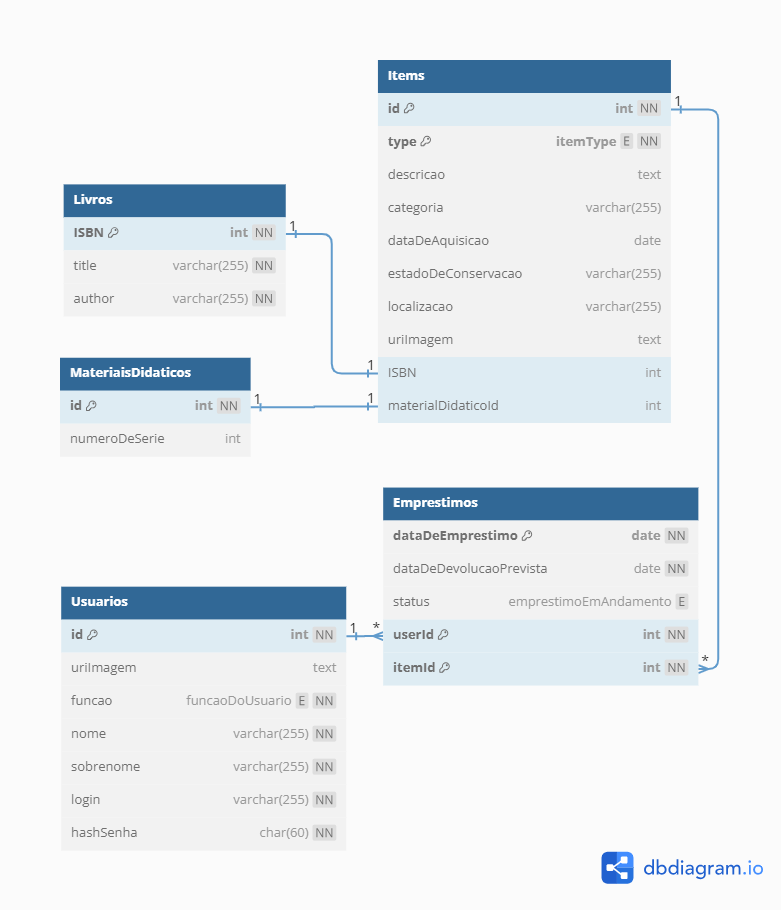
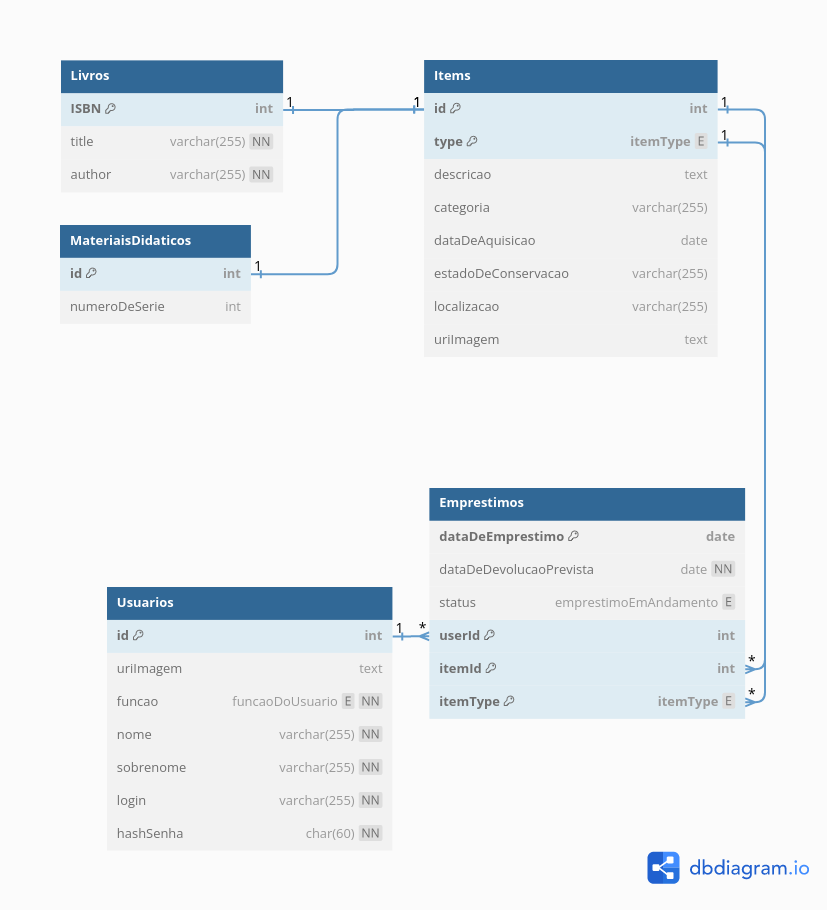
mudancas pro trab

diff --git a/segunda-entrega/Diagrama Relacional.md b/segunda-entrega/Diagrama Relacional.md
@@ -1,8 +1,44 @@
+---
+icon: table
+---
+
 # Diagrama do Modelo Relacional
 
-A maneira que boa parte das coisas foram convertidas do MER para o Modelo Relacional é clara o suficiente, mas ainda existem alguns pontos a se falar:
-
-- O hash da senha é guardada como `char(60)`;
-  - Como será usada a função
+## O diagrama
 
 [![https://dbdiagram.io/d/Trab-BD-63370a017b3d2034fff95595](DiagramaRelacional.png)](https://dbdiagram.io/d/Trab-BD-63370a017b3d2034fff95595)
+
+A maneira que boa parte das coisas foram convertidas do MER para o Modelo Relacional é clara o suficiente, mas ainda existem alguns pontos a se falar.
+
+Começando pelo **ponto mais interessante**:
+
+## Considerações
+
+### Como implementar uma herança em SQL?
+
+1. **_Single Table Inheritance_**:
+   - Criar **uma única tabela** com todas as propriedades **de todas as entidades** na relação de herança, e diferenciar qual a entidade da linha/_row_ com um atributo adicional;
+   - Isso cria **problemas**, pois, por exemplo, **não pode** se definir o atributo **ISBN como não nulo**, já que `"Material Didatico"`, **que tem ISBN nulo, ocuparia a mesma tabela** que `"Livro"`. Existem outros problemas, como **dificuldade de diferenciação** dos atributos de cada "filho", etc.
+2. **_Concrete Table Inheritance_**:
+   - Fazer **uma tabela para cada filho** do relacionamento, colocando os atributos do parente em cada um dos filhos. Ou seja, a herança definida com `"Item"`, `"Livro"` e `"Material Didatico"` seria implementado usando uma tabela para `"Livro"` e uma para `"Material Didatico"`;
+   - Isso cria **problemas**, pois, por exemplo, teríamos não uma, mas **duas tabelas** que possuem com **lógica de negócio semelhantes** (o que significa código duplicado), e a partir daí **mais duas tabelas** de `"Emprestimo"` diferentes, **multiplicando o problema** por 2. Manutenção e alteração das tabelas está mais suscetível a erro humano, pois coisas que **estão** muito **próximas** entre si **na modelagem** estão sendo **implementados** mais **distantes**. Busca pelos itens independente do tipo fica mais difícil, e necessitaria de `UNION`'s.
+3. **_Class Table Inheritance_**:
+   - Fazer uma **tabela com os atributos comuns** entre os filhos (representando o pai). Então implementar **cada filho** como sua própria **tabela**, a qual tem **chave primária** que **também** funciona como **chave estrangeira** para seu **pai**;
+   - Um **problema** conhecido dessa implementação é a dificuldade em **encontrar os filhos** a partir **do pai**. **Geralmente** é necessário **procurar em tabela por tabela** dos filhos. No entanto, utilizar o atributo **type** no **pai** é o suficiente para diferenciar em **qual tabela procurar**.
+
+Com todas essas considerações, e visto que não foram feitas todas as considerações possíveis, somente as pensadas mais relevantes para o problema, foi decidido que **a melhor opção é** usar **_Class Table Inheritance_**.
+
+### Outros Detalhes de Implementação
+
+- **Foram criados tipos Enum** para os campos `"Emprestimos"."status"`, `"Usuarios"."funcao"`, `"Items"."type"`, pois
+  - Isso torna o banco de dados uma fonte de verdade mais abrangente, contendo segurança de tipos ao inserir valores nesses campos;
+
+<br/>
+
+- Sobre `"Emprestimos"`, além de usar `(itemId, itemType, userId, dataDeEmprestimo)` como _PK_, também será usado um **index único** para `(status, )`
+
+<br/>
+
+- O **hash da senha é** guardada como **`char(60)`**, pois
+  - A função de criptografia sempre gera um hash de mesmo tamanho;
+  - Em específico, usar [crypto do pgcrypto](https://www.postgresql.org/docs/current/pgcrypto.html#PGCRYPTO-PASSWORD-HASHING-FUNCS) com o algoritmo `bf` gera output de tamanho `60`;

diff --git a/segunda-entrega/Diagrama Entidade-Relacionamento.md b/segunda-entrega/Diagrama Entidade-Relacionamento.md
@@ -1,3 +1,7 @@
+---
+icon: diamond
+---
+
 # Diagrama do Modelo Entidade-Relacionamento (MER)
 
 O diagrama foi feito praticamente exatamente conforme as especificações.

diff --git a/segunda-entrega/index.md b/segunda-entrega/index.md
@@ -1,5 +1,5 @@
 ---
-icon: table
+icon: database
 ---
 
 # Segunda entrega
